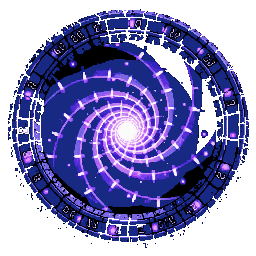
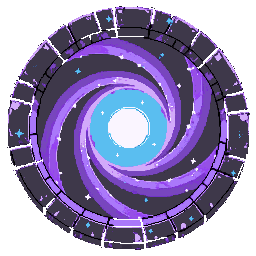
TASK 73: portale TONDO completo (rigenerato PixelLab) + muri a BLOCCHI (stile rettangolo rosso)
PORTALE (feedback 'non va ancora, e tagliato il portale'):
- Diagnosi numerica: NON era il muro (z-order Task 72 corretto) — era
  l'ASSET portal_sheet.png del Task 65: vortice PIATTO 60x33 (mezzaluna
  'galassia orizzontale', ratio 1.82) la cui meta' superiore mancava
  DALLO SPRITE. VLM: 'semispirale orizzontale, parte superiore assente'.
- ROOT CAUSE forma: ricetta Task 65 con color_image = vecchio sheet
  piatto -> anchor che trascina la forma (lezione Task 72).
- FIX: anchor TONDO disegnato in repo (gen_portal_anchor.py, 0 gen:
  anello pietra + vortice 3 bracci viola/ciano + nucleo, 238x238,
  margini 9px) + prompt/negative che inchiodano il cerchio completo.
- Rigenerato con PixelLab (5 gen, saldo 396.75 -> 391.75): QA anim
  PASS (zero duplicati/slide). Post: shift uniforme +2px -> contenuto
  60x59 y[2..60] centrato (31.5, 31) in cella; feet_y ricetta = 60.
- Harness shot_task73_portal_blocks (pulse MAX): firma 62x61 ratio 1.02
  DENTRO la cella (margini L1 R1 T2 B1) — era 31px di altezza.
- VLM 4/4: cerchio completo, superiore presente, non coperto, ruota.

MURI (feedback 'troppo uniforme, preferivo lo stile precedente con il
rettangolo rosso'):
- Ripristinato stile a BLOCCHI pre-Task 72: highlight NW + ombra SE +
  outline perimetrale su TUTTI i lati di OGNI cella (bevel completo,
  il look del 'rettangolo rosso' dello screen utente Task 72).
- La texture a grana fine Task 72 RESTA (il fix delle 'sfumature
[…]

diff --git a/scripts/pixellab/gen_portal_anchor.py b/scripts/pixellab/gen_portal_anchor.py
@@ -1,0 +1,86 @@
+#!/usr/bin/env python3
+"""gen_portal_anchor.py — TASK 73: anchor TONDO per il portale magico.
+
+Genera il color_image anchor della ricetta defs_task73.magic_portal.
+PERCHE': la ricetta Task 65 uso' come anchor il vecchio sheet PIATTO
+(galassia orizzontale 60x33) e l'anchor ha trascinato la forma → il
+vortice rigenerato restava una mezzaluna che l'utente leggeva come
+"portale tagliato a meta'" (stessa lezione del Task 72: l'anchor del
+masso trascinava la texture). Questo anchor e' un CERCHIO COMPLETO:
+anello di pietra scura + vortice viola/ciano a 3 bracci + nucleo
+bianco + scintille, 238x238 centrato con margini 9px su canvas 256.
+
+Rigenerare (deterministico, 0 generazioni PixelLab):
+  python3 scripts/pixellab/gen_portal_anchor.py
+"""
+from PIL import Image, ImageDraw
+import math
+import os
+
+W = 256
+S = 0.90          # scala: margini >= 8px su ogni lato
+OUT = os.path.join(os.path.dirname(os.path.abspath(__file__)),
+                   "out", "magic_portal", "anchor_round.png")
+os.makedirs(os.path.dirname(OUT), exist_ok=True)
+
+img = Image.new('RGBA', (W, W), (0, 0, 0, 0))
+d = ImageDraw.Draw(img)
+cx, cy = W // 2, W // 2
+
+# --- anello di pietra esterno: grigio pietra scuro ---
+for r in range(int(124 * S), int(103 * S), -1):
+    t = (r - 104) / 20.0
+    g = int(52 + 30 * t)
+    col = (g, g - 6, g + 12, 255)
+    d.ellipse([cx - r, cy - r, cx + r, cy + r], outline=col, width=1)
+
+# tacche runiche viola incise sull'anello (8, alternate)
+for i in range(8):
+    a = (i / 8.0) * math.tau + 0.3
+    x = cx + math.cos(a) * 114 * S
+    y = cy + math.sin(a) * 114 * S
+    d.ellipse([x - 4, y - 4, x + 4, y + 4], fill=(120, 70, 190, 255))
+
+# --- vortice interno: 3 bracci di spirale viola/ciano verso il centro ---
+RS = int(102 * S)
+d.ellipse([cx - RS, cy - RS, cx + RS, cy + RS], fill=(28, 16, 48, 255))
+
+for arm in range(3):
+    a0 = (arm / 3.0) * math.tau
+    pts = []
+    for step in range(56):
+        t = step / 55.0                      # 0 = esterno, 1 = centro
+        r = 96.0 * S * (1.0 - t) + 8.0
+        ang = a0 + 1.9 * math.tau * t        # ~2 giri di avvolgimento
+        x = cx + math.cos(ang) * r
+        y = cy + math.sin(ang) * r
+        pts.append((x, y))
+    for i in range(len(pts) - 1):
+        wdt = max(2, int(11 * (1.0 - i / len(pts))) + 2)
+        t = i / len(pts)
+        if t < 0.5:
+            col = (150, 80, 230, 255)
+        else:
+            col = (90, 190, 240, 255)
+        d.line([pts[i], pts[i + 1]], fill=col, width=wdt)
+
+# --- nucleo luminoso centrale ---
+d.ellipse([cx - 22, cy - 22, cx + 22, cy + 22], fill=(210, 170, 250, 255))
+d.ellipse([cx - 12, cy - 12, cx + 12, cy + 12], fill=(250, 245, 255, 255))
+
+# --- scintille attorno al bordo esterno (fuori anello) ---
+for i in range(10):
+    a = (i / 10.0) * math.tau + 0.15
+    r = 118.0
+    x = cx + math.cos(a) * r
+    y = cy + math.sin(a) * r
+    d.ellipse([x - 2, y - 2, x + 2, y + 2], fill=(170, 120, 250, 255))
+
+img.save(OUT)
+
+import numpy as np
+a = np.array(img)
+ys, xs = np.nonzero(a[:, :, 3] > 10)
+print(f'anchor salvato: {OUT}')
+print(f'bbox contenuto: x[{xs.min()}..{xs.max()}] y[{ys.min()}..{ys.max()}] '
+      f'(w={xs.max()-xs.min()+1} h={ys.max()-ys.min()+1}) — tondo, margini 9px')

diff --git a/scripts/pixellab/defs_task73.py b/scripts/pixellab/defs_task73.py
@@ -1,0 +1,60 @@
+#!/usr/bin/env python3
+"""defs_task73.py — portale TONDO completo (rigenerazione Task 73).
+
+TASK 73 (feedback utente "e' tagliato il portale"): diagnosi numerica —
+NON e' il muro (z-order Task 72 OK): e' l'ASSET portal_sheet.png del
+Task 65 che e' un vortice PIATTO (contenuto 60x33, mezzaluna aperta in
+alto, "galassia orizzontale"). L'utente lo percepisce come tagliato a
+meta' perche' la meta' superiore del cerchio MANCA DALLO SPRITE.
+
+ROOT CAUSE della forma: la ricetta Task 65 uso' color_image = vecchio
+sheet piatto -> l'anchor ha trascinato la forma (stessa lezione del
+Task 72 sulla texture del masso). FIX: anchor TONDO disegnato ad hoc
+(scripts/task73_anchor.py: anello pietra + vortice viola/ciano + core,
+238x238, margini 9px) + descrizione/negative che inchiodano il cerchio.
+"""
+from __future__ import annotations
+
+import os
+
+ENTITIES: dict = {
+    "magic_portal": {
+        "kind": "anim",
+        "target": "env/portal_sheet.png",
+        # ANCHOR TONDO generato in repo (deterministico, 0 gen PixelLab):
+        # python3 scripts/pixellab/gen_portal_anchor.py
+        "color_image": os.path.join(os.path.dirname(__file__), "out",
+                                    "magic_portal", "anchor_round.png"),
+        "description": (
+            "magic portal, PERFECT FULL CIRCLE shape, round stone ring "
+            "frame with glowing violet runes, inside the ring a complete "
+            "circular vortex of violet and cyan energy spiral filling the "
+            "entire circle, bright white glowing core at the center, "
+            "small arcane sparks around the rim, front view, perfectly "
+            "centered, as tall as it is wide, fantasy pixel art magic "
+            "gateway, transparent background"
+        ),
+        "action": (
+            "the energy vortex rotates clockwise inside the steady stone "
+            "ring, spiral arms turning around the bright core, sparks "
+            "orbiting the rim, stone ring perfectly still and centered, "
+            "no color drift, no camera movement, no zoom"
+        ),
+        "negative_description": (
+            "flat galaxy shape, horizontal spiral, wide flat ellipse, "
+            "crescent, half circle, cut off, cropped, side view, oval "
+            "wider than tall, disc seen at an angle, plain orb, square "
+            "shape, minimal shading"
+        ),
+        "frame_count": 4,
+        "frame_px": 64,
+        # feet_y=60: contenuto 59px -> y[2..60], centro (31.5, 31), margini 2px
+        # (con 58 toccava il bordo alto y[0]; shift +2 applicato a mano sul
+        # sheet integrato = identico a rigenerare con 60)
+        "feet_y": 60,
+        "anchor": (32, 32),    # oggetto flottante: centrato
+        "seed": 73,
+        "anim_seed": 7,
+        "bg_tol": 34,
+    },
+}
